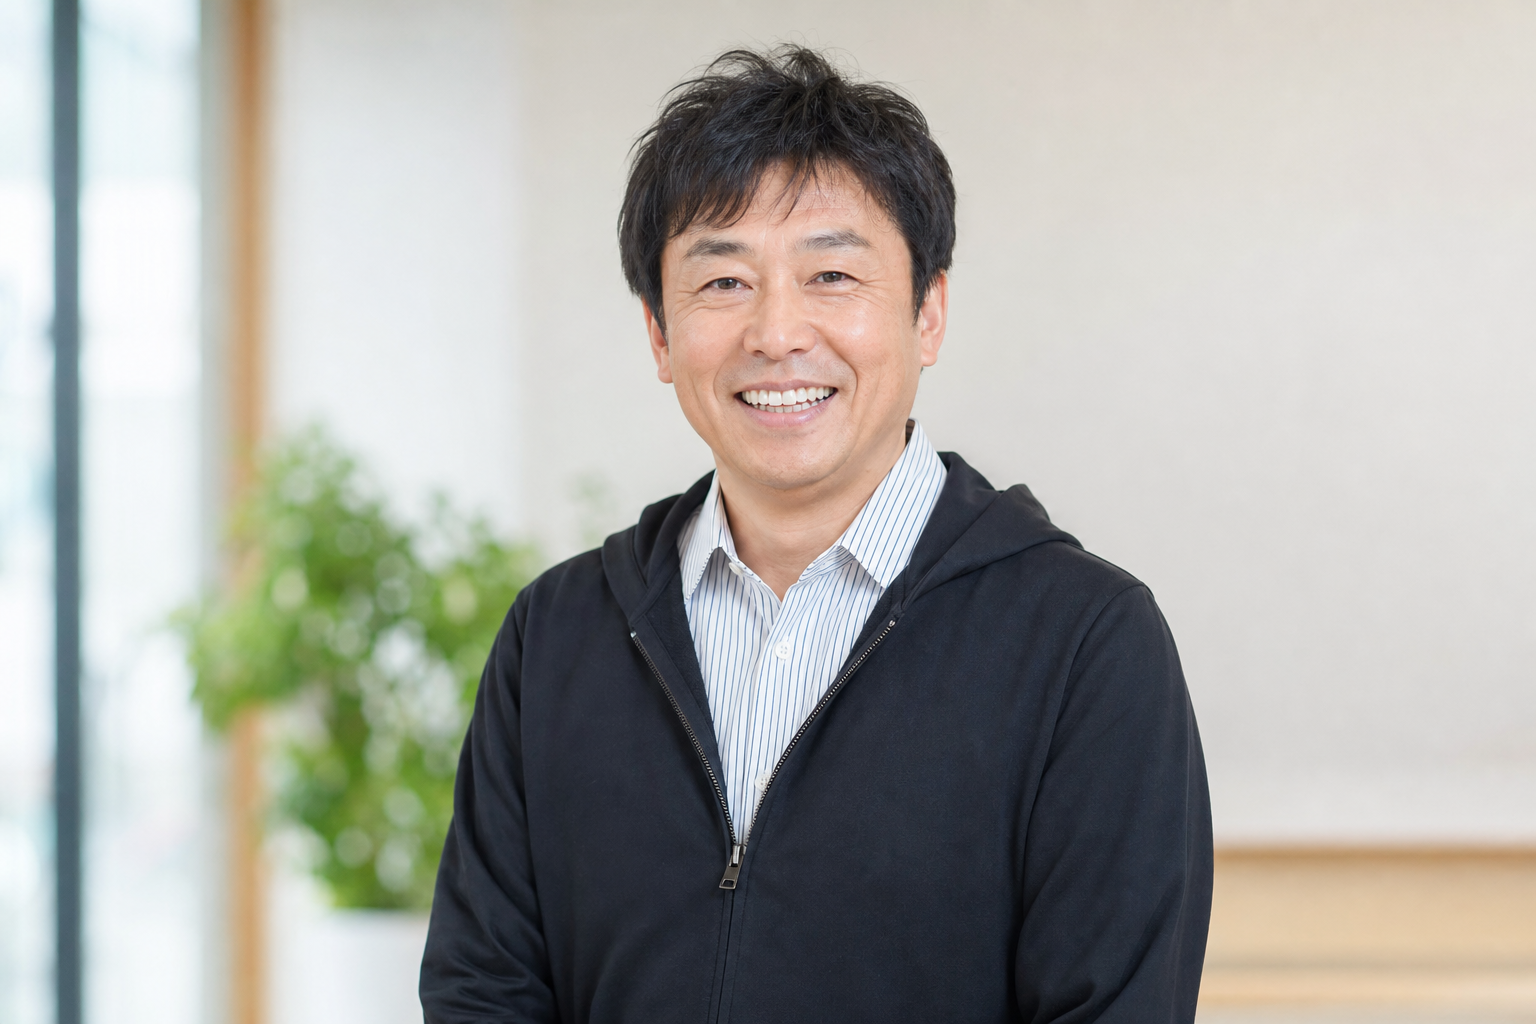
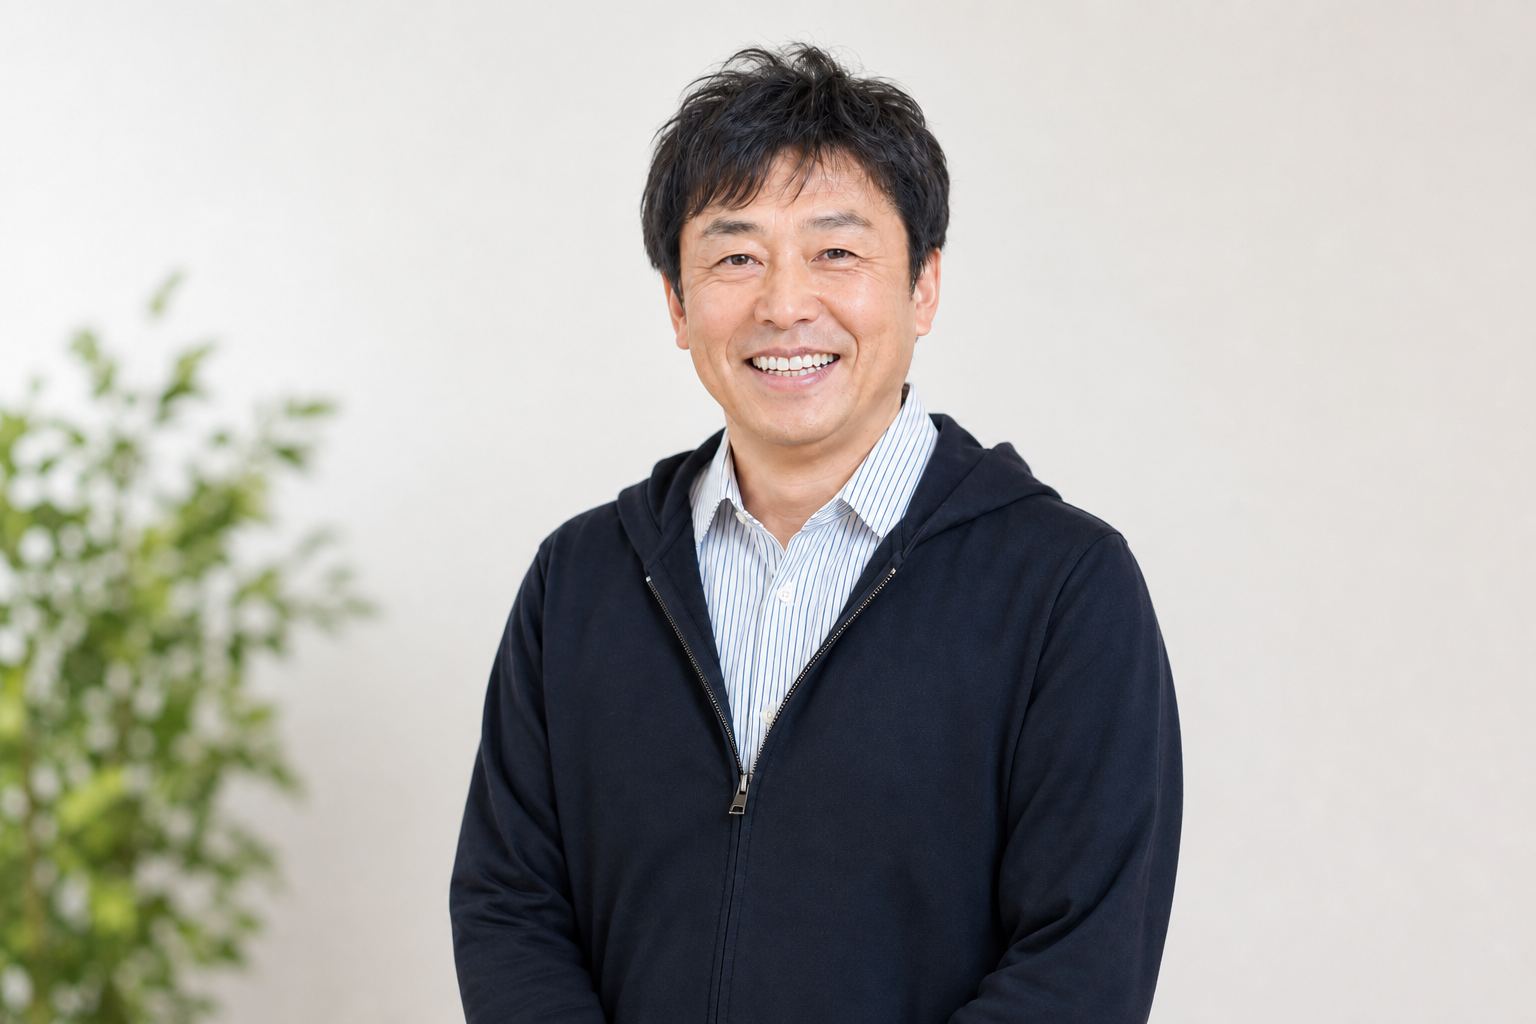
Replace representative director photos with Tochihara set
- Update main, alt1, and alt2 images (remove wrong Tanaka alt2)
- Bump image cache buster to 20260615
- Update alt2 alt text for meeting scene

diff --git a/index.html b/index.html
@@ -507,14 +507,14 @@
       </h3>
       <div class="program-leader-gallery" aria-label="代表理事 栃原晋太郎の写真">
         <figure class="program-leader-gallery__main">
-          <img src="/static/tochihara-representative-main.jpg?v=20260605" alt="代表理事 栃原晋太郎（笑顔のポートレート）" width="480" height="640" loading="lazy" decoding="async">
+          <img src="/static/tochihara-representative-main.jpg?v=20260615" alt="代表理事 栃原晋太郎（笑顔のポートレート）" width="480" height="640" loading="lazy" decoding="async">
         </figure>
         <div class="program-leader-gallery__sub">
           <figure>
-            <img src="/static/tochihara-representative-alt1.jpg?v=20260605" alt="代表理事 栃原晋太郎（施設での様子）" width="320" height="400" loading="lazy" decoding="async">
+            <img src="/static/tochihara-representative-alt1.jpg?v=20260615" alt="代表理事 栃原晋太郎（施設での様子）" width="320" height="400" loading="lazy" decoding="async">
           </figure>
           <figure>
-            <img src="/static/tochihara-representative-alt2.jpg?v=20260605" alt="代表理事 栃原晋太郎（グループワークの場面）" width="320" height="400" loading="lazy" decoding="async">
+            <img src="/static/tochihara-representative-alt2.jpg?v=20260615" alt="代表理事 栃原晋太郎（面談・ミーティングの場面）" width="320" height="400" loading="lazy" decoding="async">
           </figure>
         </div>
       </div>
@@ -928,7 +928,7 @@
     <div class="leader-message">
       <h3 class="leader-message__heading heading-oneline">代表メッセージ</h3>
       <div class="leader-profile">
-        <img src="/static/tochihara-representative-main.jpg?v=20260605" alt="代表理事 栃原晋太郎氏のプロフィール写真" class="leader-profile-image" width="240" height="320" loading="lazy" decoding="async">
+        <img src="/static/tochihara-representative-main.jpg?v=20260615" alt="代表理事 栃原晋太郎氏のプロフィール写真" class="leader-profile-image" width="240" height="320" loading="lazy" decoding="async">
         <div class="leader-profile-copy">
           <p class="leader-profile-name heading-oneline">一般社団法人ひごのいえ　代表理事　栃原 晋太郎</p>
           <p>